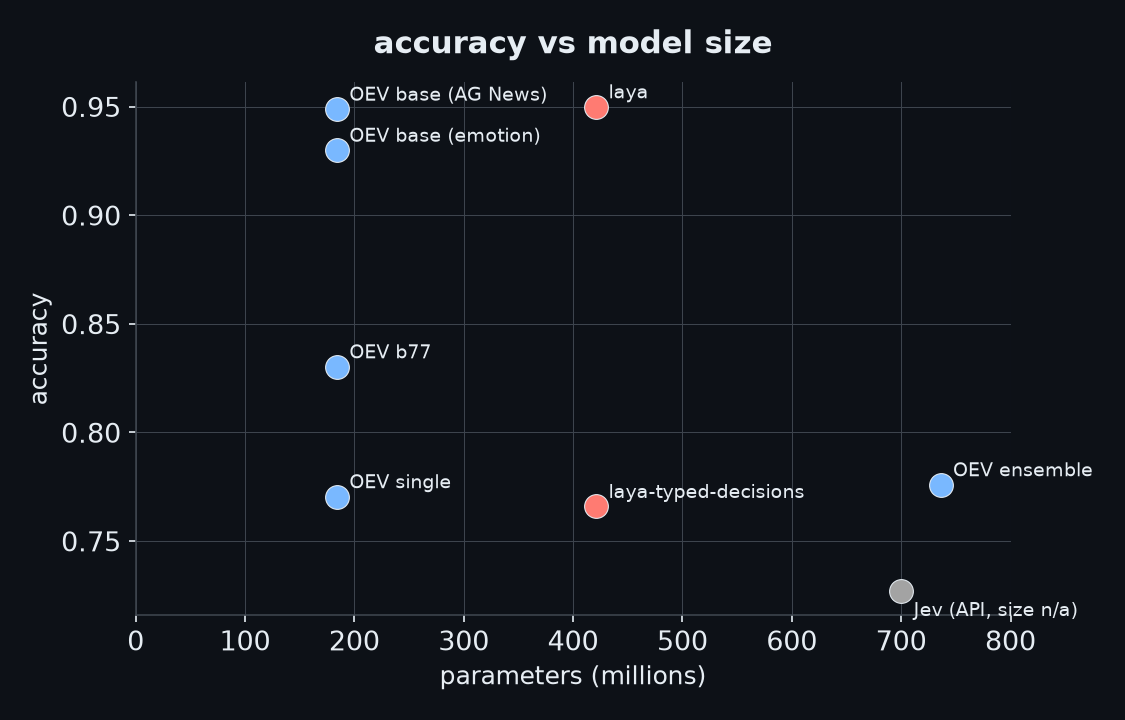
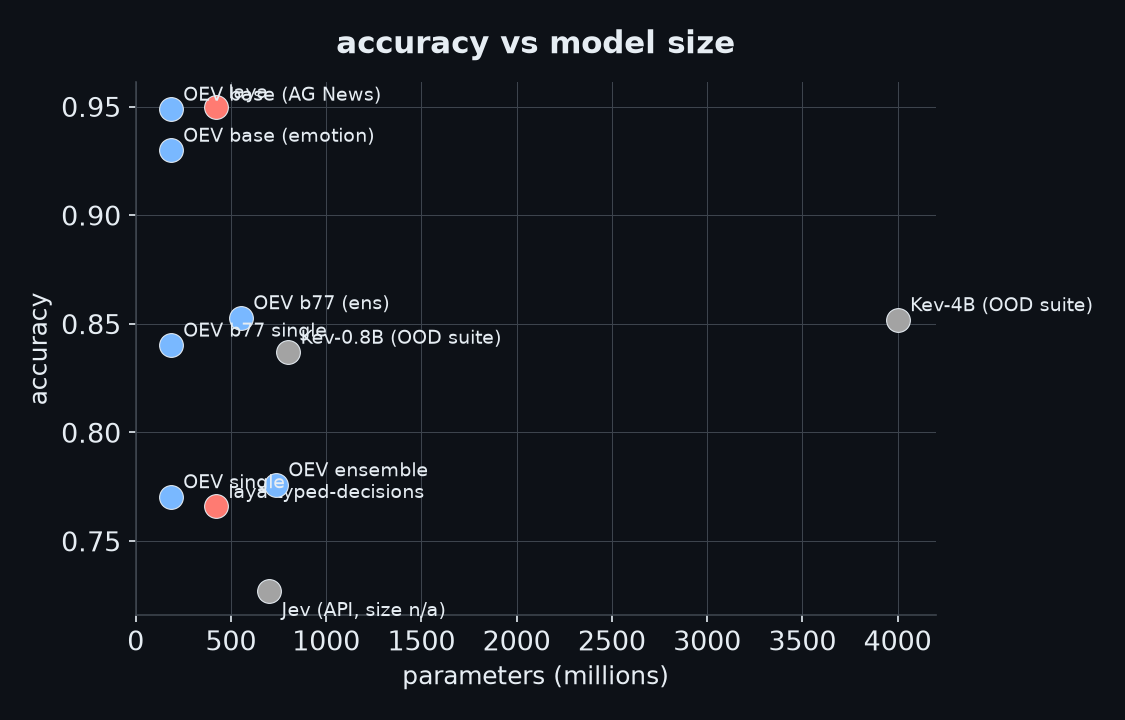
feat(ui): kev-style themable interface, kev added to size chart, b77 ensemble number in all figures

diff --git a/app.py b/app.py
@@ -42,41 +42,66 @@ def load():
 # ---------------- CSS: dark theme, cards, bars ----------------
 
 CSS = """
-.gradio-container { background: #111214 !important; color: #e8e8ea !important; }
-.gradio-container .prose { color: #e8e8ea !important; }
-h1, h2, h3 { color: #ffffff !important; }
+/* everything uses Gradio CSS variables: the theme toggle flips them all at once */
+#colwrap { max-width: 1180px; margin: 0 auto; }
 #header { text-align: center; padding: 18px 0 6px 0; }
 #header h1 { font-size: 2.1em; margin-bottom: 2px; }
-#header p { color: #9aa0a6 !important; font-size: 1.02em; margin: 0; }
-#toolbar { display: flex; gap: 8px; align-items: center; justify-content: flex-end; margin: 4px 0 10px 0; }
-#toolbar > div { max-width: 260px !important; }
-#toolbar button.primary, #toolbar button[class*='primary'] { background: #4f9cf9 !important; border: none !important; color: #fff !important; }
-button.lg.primary, .gradio-container button.primary { background: #4f9cf9 !important; border: none !important; color: #ffffff !important; }
-.gradio-container button.primary:hover { background: #3f8ae8 !important; }
-#statusline { color: #9aa0a6 !important; font-size: 0.88em; text-align: right; margin: -6px 0 10px 0; }
-.qcard, .result-card {
-    background: #1b1d21 !important;
-    border: 1px solid #2a2d33 !important;
-    border-radius: 12px !important;
-    padding: 14px 16px !important;
-    margin-bottom: 10px !important;
+#header p { color: var(--body-text-color-subdued); font-size: 1.02em; margin: 0; }
+#toolbar { position: sticky; top: 0; z-index: 50; background: var(--body-background-fill);
+           display: flex; gap: 8px; align-items: center; justify-content: flex-end;
+           margin: 4px 0 10px 0; padding: 8px 0; border-bottom: 1px solid var(--border-color-primary); }
+#toolbar .form, #toolbar .block { border: none !important; background: transparent !important;
+                                  box-shadow: none !important; padding: 0 !important; }
+#toolbar > div { max-width: 240px !important; }
+#theme-btn { max-width: 130px !important; }
+#statusline { color: var(--body-text-color-subdued); font-size: 0.88em; text-align: right; margin: -6px 0 10px 0; }
+.result-card {
+    border: 1px solid var(--border-color-primary);
+    border-radius: 10px;
+    padding: 12px 14px;
+    margin-bottom: 10px;
+    background: var(--background-fill-secondary);
 }
-.qname { font-weight: 700; color: #ffffff; font-size: 1.02em; }
-.qtype { color: #7f8691; font-size: 0.8em; text-transform: uppercase; letter-spacing: 0.06em; }
-.ansname { color: #4f9cf9; font-weight: 700; font-size: 1.15em; }
+.qname { font-weight: 700; color: var(--body-text-color); font-size: 1.02em; }
+.qtype { color: var(--body-text-color-subdued); font-size: 0.8em; text-transform: uppercase; letter-spacing: 0.06em; }
+.ansname { color: var(--color-accent); font-weight: 700; font-size: 1.15em; }
 .confchip {
     display: inline-block; margin-left: 8px; padding: 1px 8px; border-radius: 10px;
-    font-size: 0.78em; background: #23303f; color: #8ec2ff;
+    font-size: 0.78em; background: var(--background-fill-primary);
+    color: var(--body-text-color-subdued); border: 1px solid var(--border-color-primary);
 }
-.confchip.low { background: #3a2b23; color: #f0b477; }
+.confchip.low { color: var(--color-warning); border-color: var(--color-warning);
+                background: color-mix(in srgb, var(--color-warning) 12%, transparent); }
 .bar-row { display: flex; align-items: center; gap: 10px; margin: 5px 0; }
-.bar-label { width: 190px; min-width: 190px; font-size: 0.85em; color: #cfd3d9;
+.bar-label { width: 190px; min-width: 190px; font-size: 0.85em; color: var(--body-text-color);
              overflow: hidden; text-overflow: ellipsis; white-space: nowrap; text-align: right; }
-.bar-track { flex: 1; height: 8px; background: #26292f; border-radius: 5px; overflow: hidden; }
-.bar-fill { height: 100%; background: #4f9cf9; border-radius: 5px; }
-.bar-fill.win { background: #57b98c; }
-.bar-val { width: 48px; min-width: 48px; font-size: 0.82em; color: #9aa0a6; text-align: right; }
+.bar-track { flex: 1; height: 6px; background: var(--border-color-primary); border-radius: 999px; overflow: hidden; }
+.bar-fill { height: 100%; background: var(--body-text-color-subdued); border-radius: 999px; }
+.bar-fill.win { background: var(--body-text-color); }
+.bar-val { width: 48px; min-width: 48px; font-size: 0.82em; color: var(--body-text-color-subdued); text-align: right;
+           font-variant-numeric: tabular-nums; }
+#placeholder { border: 1px dashed var(--border-color-primary); border-radius: 10px; padding: 28px 16px;
+               text-align: center; color: var(--body-text-color-subdued); font-size: 13px; }
 footer { visibility: hidden; }
+"""
+
+# light/dark toggle: flips Gradio's `dark` class; every var() above follows
+THEME_JS = """
+() => {
+    const c = document.querySelector('.gradio-container');
+    const dark = c.classList.toggle('dark');
+    localStorage.setItem('oev-theme', dark ? 'dark' : 'light');
+    return dark ? 'light mode' : 'dark mode';
+}
+"""
+
+THEME_INIT_JS = """
+() => {
+    const saved = localStorage.getItem('oev-theme');
+    const c = document.querySelector('.gradio-container');
+    if (saved === 'light') c.classList.remove('dark');
+    if (saved === 'dark') c.classList.add('dark');
+}
 """
 
 _TYPE_LABEL = {"choice": "choice", "noul": "yes / no", "score": "score"}
@@ -156,8 +181,8 @@ def _decide(state, questions, temperature=1.0):
 
 
 def _error_card(msg) -> str:
-    return (f'<div class="result-card"><span class="ansname" style="color:#f0776b">error</span>'
-            f'<div style="margin-top:6px;color:#cfd3d9">{msg}</div></div>')
+    return (f'<div class="result-card"><span class="ansname" style="color:var(--color-danger)">error</span>'
+            f'<div style="margin-top:6px">{msg}</div></div>')
 
 
 # ---------------- trained workflow presets (verbatim schemas) ----------------
@@ -271,20 +296,22 @@ EXAMPLE_TABS = ["Support triage", "News article", "Review rating", "Return windo
 
 # ---------------- UI ----------------
 
-with gr.Blocks(title="OEV") as demo:
-    with gr.Column(elem_id="header"):
+with gr.Blocks(title="OEV", js=THEME_INIT_JS) as demo:
+    with gr.Column(elem_id="colwrap"):
+      with gr.Column(elem_id="header"):
         gr.Markdown("# OEV\n*Typed questions in. Calibrated probabilities out. One forward pass. Nothing is generated.*")
 
-    with gr.Row(elem_id="toolbar"):
+      with gr.Row(elem_id="toolbar"):
         temp = gr.Slider(0.5, 3.0, value=1.0, step=0.05, label="temperature",
                          info="<1 sharpens, >1 flattens; argmax never changes",
                          container=False, scale=1, min_width=160)
+        theme_btn = gr.Button("light mode", size="sm", scale=0, elem_id="theme-btn")
         order_btn = gr.Button("Order check", size="sm", scale=0)
         decide_btn = gr.Button("Decide", variant="primary", scale=0, min_width=140)
 
-    status = gr.Markdown("", elem_id="statusline")
+      status = gr.Markdown("", elem_id="statusline")
 
-    with gr.Row():
+      with gr.Row():
         with gr.Column(scale=5):
             gr.Markdown("### Examples")
             with gr.Row():
@@ -302,8 +329,8 @@ with gr.Blocks(title="OEV") as demo:
 
         with gr.Column(scale=4):
             gr.Markdown("### Answers")
-            results = gr.HTML('<div class="result-card" style="color:#9aa0a6">Pick an example, '
-                              'edit the state or questions, then press Decide.</div>')
+            results = gr.HTML('<div id="placeholder">Answers appear here. One card per question, '
+                              'with a bar per option.</div>')
 
     # ---- verification tab stays as its own page ----
     with gr.Tab("Verify the architecture"):
@@ -396,7 +423,7 @@ with gr.Blocks(title="OEV") as demo:
         stable = len(set(picks)) == 1
         html = (f'<div class="result-card"><span class="qname">order check · {first}</span>'
                 f'<span class="qtype"> · {len(rows)} rotations</span><br>'
-                f'<span class="ansname" style="color:{"#57b98c" if stable else "#f0b477"}">'
+                f'<span class="ansname" style="color:{"var(--color-success)" if stable else "var(--color-warning)"}">'
                 f'{"stable" if stable else "flips across rotations"}</span>'
                 f'<div style="margin-top:8px">'
                 + "".join(f'<div class="bar-row"><div class="bar-label">rotation {r}</div>'
@@ -407,6 +434,8 @@ with gr.Blocks(title="OEV") as demo:
         return html, status
 
     order_btn.click(_order_check, [state_box, qs_box, temp], [results, status])
+
+    theme_btn.click(None, None, None, js=THEME_JS)
 
     gr.Markdown("*[divyanshudhruv/oev-typed](https://huggingface.co/divyanshudhruv/oev-typed) · 184M params · one forward pass per question set · [probes](https://github.com/divyanshudhruv/oev/blob/main/oev/probes.py)*")
 

diff --git a/scripts/make_charts.py b/scripts/make_charts.py
@@ -27,9 +27,12 @@ plt.rcParams.update({
 })
 
 # ---------------- Chart 1: accuracy across benchmarks ----------------
+# Kev publishes no in-domain numbers for these datasets; its published
+# numbers are OOD-suite accuracies, so its bars are omitted here rather
+# than compared apples-to-oranges.
 bench = ["typed-decisions", "AG News", "emotion", "Banking77"]
 laya_vals = [0.766, 0.950, 0.595, 0.425]
-oev_vals = [0.7760, 0.9489, 0.9300, 0.8303]
+oev_vals = [0.7760, 0.9489, 0.9300, 0.8529]
 jev_vals = [0.727, 0.910, 0.480, 0.870]
 
 fig, ax = plt.subplots(figsize=(12, 6.2))
@@ -60,8 +63,11 @@ pts = [
     ("OEV single", 184, 0.7705, ACC[0]),
     ("OEV base (AG News)", 184, 0.9489, ACC[0]),
     ("OEV base (emotion)", 184, 0.9300, ACC[0]),
-    ("OEV b77", 184, 0.8303, ACC[0]),
+    ("OEV b77 (ens)", 3 * 184, 0.8529, ACC[0]),
+    ("OEV b77 single", 184, 0.8403, ACC[0]),
     ("Jev (API, size n/a)", 700, 0.727, ACC[4]),
+    ("Kev-0.8B (OOD suite)", 800, 0.837, ACC[2]),
+    ("Kev-4B (OOD suite)", 4000, 0.852, ACC[2]),
 ]
 for name, params, acc, c in pts:
     ax.scatter(params, acc, s=130, color=c, zorder=3, edgecolors="black", linewidths=0.5)
@@ -70,7 +76,7 @@ for name, params, acc, c in pts:
 ax.set_xlabel("parameters (millions)")
 ax.set_ylabel("accuracy")
 ax.set_title("accuracy vs model size", fontweight="bold")
-ax.set_xlim(0, 800)
+ax.set_xlim(0, 4200)
 fig.tight_layout()
 fig.savefig("assets/params_vs_acc.png", dpi=150)
 plt.close(fig)
@@ -174,7 +180,7 @@ for tag, accent in (("dark", DARK_ACC),):
     ax.set_xlabel("parameters (millions)")
     ax.set_ylabel("accuracy")
     ax.set_title("accuracy vs model size", fontweight="bold")
-    ax.set_xlim(0, 800)
+    ax.set_xlim(0, 4200)
     fig.tight_layout()
     fig.savefig(f"assets/params_vs_acc_{tag}.png", dpi=150)
     plt.close(fig)
@@ -227,7 +233,7 @@ for name, params, acc, c in pts:
                 textcoords="offset points", xytext=(5, 6), fontsize=8)
 ax.set_xlabel("parameters (M)"); ax.set_ylabel("typed-decisions accuracy")
 ax.set_title("accuracy vs size")
-ax.set_xlim(0, 800)
+ax.set_xlim(0, 4200)
 
 # panel 2: per-primitive
 ax = axes[1]

diff --git a/scripts/make_bigfigure.py b/scripts/make_bigfigure.py
@@ -32,7 +32,7 @@ ax = fig.add_subplot(gs[0, 0])
 bench = ["typed-decisions", "AG News", "DAIR Emotion", "Banking77"]
 jev = [0.727, 0.910, 0.480, 0.870]
 laya = [0.766, 0.950, 0.595, 0.425]
-oev = [0.7760, 0.9489, 0.9300, 0.8303]
+oev = [0.7760, 0.9489, 0.9300, 0.8529]
 x = np.arange(len(bench)); w = 0.26
 ax.bar(x - w, jev, w, label="Jev (published)", color=GRAY)
 ax.bar(x, laya, w, label="laya (published)", color=RED)
@@ -103,11 +103,14 @@ pts = [
     ("laya (421M)", 421, 0.766, RED),
     ("OEV single (184M)", 184, 0.7705, BLUE),
     ("OEV ensemble (736M)", 736, 0.7760, BLUE),
+    ("OEV b77 ens (552M)", 552, 0.8529, BLUE),
+    ("Kev-0.8B (OOD)", 800, 0.837, GREEN),
+    ("Kev-4B (OOD)", 4000, 0.852, GREEN),
 ]
 for name, params, acc, c in pts:
     ax.scatter(params, acc, s=120, color=c, zorder=3, edgecolors="black", linewidths=0.5)
     ax.annotate(name, (params, acc), textcoords="offset points", xytext=(6, 5), fontsize=7)
-ax.set_xlim(0, 850); ax.set_ylim(0.74, 0.80)
+ax.set_xlim(0, 4200); ax.set_ylim(0.72, 0.90)
 ax.set_xlabel("parameters (millions)"); ax.set_ylabel("typed-decisions accuracy")
 ax.set_title("Accuracy vs model size")
 
@@ -217,7 +220,7 @@ for name, params, acc, _ in pts:
     c = BLUE if name.startswith("OEV") else RED
     ax.scatter(params, acc, s=120, color=c, zorder=3, edgecolors=DARK_TEXT, linewidths=0.5)
     ax.annotate(name, (params, acc), textcoords="offset points", xytext=(6, 5), fontsize=7, color=DARK_TEXT)
-ax.set_xlim(0, 850); ax.set_ylim(0.74, 0.80)
+ax.set_xlim(0, 4200); ax.set_ylim(0.72, 0.90)
 ax.set_xlabel("parameters (millions)"); ax.set_ylabel("typed-decisions accuracy")
 ax.set_title("Accuracy vs model size")
 

diff --git a/BENCHMARKS.md b/BENCHMARKS.md
@@ -72,6 +72,12 @@ One caveat on the Brier column: OEV is trained to match the teacher's full distr
 
 On calibration, note that laya's headline `0.081` mean ECE figure is measured after temperature refitting; the `0.213` above is its typed-decisions checkpoint as published. OEV's `0.0938` (single) and `0.0279` (RLCD) are likewise as-published checkpoint numbers, so the comparison is like for like.
 
+## Kev: what can and cannot be compared
+
+Kev (0.8B and 4B, open weights) publishes no in-domain numbers on typed-decisions, AG News, DAIR Emotion or Banking77 - its reported results are on its own out-of-domain suites (0.652 at 0.8B, 0.837 at 4B on its harder split). Comparing those against OEV's in-domain numbers would be apples to oranges, so Kev does not appear in the tables above. Where a like-for-like number exists it will be added: the WANLI/transfer out-of-domain evaluation (planned) measured on both models' own protocols is the only fair battleground, and it is also where OEV currently has no published number.
+
+The honest summary until then: OEV wins every published in-domain row it shares with laya and Jev (except Banking77 vs Jev's 0.870), and has not yet measured the out-of-domain row where Kev published.
+
 ## AG News and emotion: pressing the ceiling
 
 | model                                |     params |      AG News | DAIR Emotion |                     ECE |

diff --git a/README.md b/README.md
@@ -51,6 +51,7 @@ The single `184M` model scores `0.7705` on typed-decisions, slightly above laya'
 - `ECE 0.0298` on typed-decisions after temperature fitting - measured confidence tracks actual accuracy, so it can gate automation
 - `0.8529` on 77-label `Banking77` with `ECE 0.0595`: each option is embedded as its own anchor with full tokens, so accuracy scales with label count (Jev still leads there)
 - `184M` params, `Apache 2.0` weights
+- Kev (0.8B / 4B) publishes no in-domain numbers on these datasets, so it is not in the tables; see [BENCHMARKS.md](BENCHMARKS.md) for the like-for-like comparison plan
 
 ## Architecture
 
